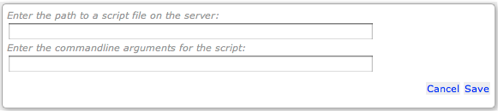
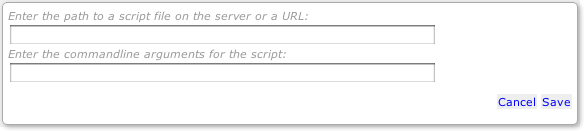
Add documentation for script URL command steps
Add api and format  documentation

[#230 state:needs_verification]

Changed region(s): [[0.0, 0.0, 1.0, 1.0], [0.0, 0.3784, 0.753, 0.6486], [0.0, 0.0811, 0.753, 0.3514]]

diff --git a/docs/en/api/rundeck-api.md b/docs/en/api/rundeck-api.md
@@ -7,7 +7,7 @@ Rundeck provides a Web API for use with your application.
 API Version Number
 ----
 
-The current API version is `3`.
+The current API version is `4`.
 
 For API endpoints described in this document, the *minimum* API version required for their
 use is indicated by the URL used, e.g.:
@@ -657,6 +657,39 @@ Required Parameters:
 Required Content:
 
 * `scriptFile`: A `x-www-form-urlencoded` request parameter containing the script file content.
+
+Optional Parameters:
+
+* `argString`: Arguments to pass to the script when executed.
+* `nodeThreadcount`: threadcount to use
+* `nodeKeepgoing`: if "true", continue executing on other nodes even if some fail.
+
+Node filter parameters as described under [Using Node Filters](#using-node-filters)
+
+Result: A success message, and a single `<execution>` item identifying the
+new execution by ID:
+
+    <execution id="X"/>
+
+### Running Adhoc Script URLs
+
+Run a script downloaded from a URL.  (**API version 4** required.)
+
+URL:
+
+    /api/4/run/url
+
+Method: `POST`
+
+Expected Content-Type: `application/x-www-form-urlencoded`
+
+Required Parameters:
+
+* `project`: the project name
+
+Required Content:
+
+* `scriptURL`: A URL pointing to a script file
 
 Optional Parameters:
 

diff --git a/docs/en/manpages/man1/dispatch.md b/docs/en/manpages/man1/dispatch.md
@@ -59,6 +59,9 @@ on a set of nodes which are specified by the filter options.
 -s, \--script *SCRIPT*
 : Dispatch specified script file
 
+-u, \--url *URL*
+: Download a URL and dispatch it as a script
+
 -S, \--stdin
 : Execute input read from *STDIN*
 
@@ -113,6 +116,23 @@ Execute the "myscript.sh" shell script across the Nodes tagged "web":
 
 Note: The script file is copied to a temporary directory on the target
 machines (on unix it is /tmp and on Windows c:\windows\temp)
+
+## URL (-u) ##
+
+Downloads a URL and then dispatches it for execution as a script on the
+target nodes.
+
+*Examples*
+
+Execute a shell script available at a URL across the Nodes tagged "web":
+
+    dispatch -I tags=web -u http://ops.example.com/scripts/myscript.sh
+
+Note: The script file is copied to a temporary directory on the target
+machines (on unix it is /tmp and on Windows c:\windows\temp)
+
+The URL can contain property references expanded in the execution
+context.
 
 ## STDIN (-S) ##
 

diff --git a/docs/en/manpages/man5/job-yaml-v12.md b/docs/en/manpages/man5/job-yaml-v12.md
@@ -120,6 +120,8 @@ Example:
         args: ...
       - scriptfile: ...
         args:
+      - scripturl: ...
+        args:
       - jobref:
           name: jobname
           group: group
@@ -193,6 +195,23 @@ This [Command](#command) executes a script file stored on the server.
 Example:
 
     - scriptfile: /path/to/script
+      args: arguments to script
+
+#### Script URL Execution Entry
+
+This [Command](#command) downloads a script file from a URL and executes it.
+
+`scripturl`
+
+:    URL to the script file
+
+`args`
+
+:     optional arguments to the script
+
+Example:
+
+    - scripturl: http://example.com/path/to/script
       args: arguments to script
 
 #### Job Reference Entry

diff --git a/docs/en/manual/05-job-workflows.md b/docs/en/manual/05-job-workflows.md
@@ -148,6 +148,21 @@ This is similar to calling the script file with <code>dispatch</code>:
 
     dispatch [filter-options] -s scriptfile -- args
 
+### Script URL step
+
+Downloads a script from a URL, and executes it to the filtered Node
+set. Arguments can be passed to the script by specifying them in the
+lower text field.
+
+![Script URL step type](../figures/fig0406.png)
+
+
+This is similar to calling the script URL with <code>dispatch</code>:
+
+    dispatch [filter-options] -u URL -- args
+
+The URL can contain [Context Variables](#context-variables) that will be expanded at runtime.
+
 ### Job reference step
 
 To call another saved Job, create a Job Reference step. Enter the name

diff --git a/docs/en/manpages/man5/job-v20.md b/docs/en/manpages/man5/job-v20.md
@@ -102,7 +102,7 @@ Jobs execute a sequence of commands. Commands come in several styles:
 
 * System command
 * A script
-* A script file
+* A script file or URL
 * Another defined job
 
 *Examples*
@@ -680,6 +680,13 @@ Script File:
 
     <command >
         <scriptfile>/path/to/a/script</scriptfile>
+        <scriptargs>-whatever something</scriptargs>
+    </command>      
+
+Script URL:
+
+    <command >
+        <scripturl>http://example.com/path/to/a/script</scripturl>
         <scriptargs>-whatever something</scriptargs>
     </command>      
 
